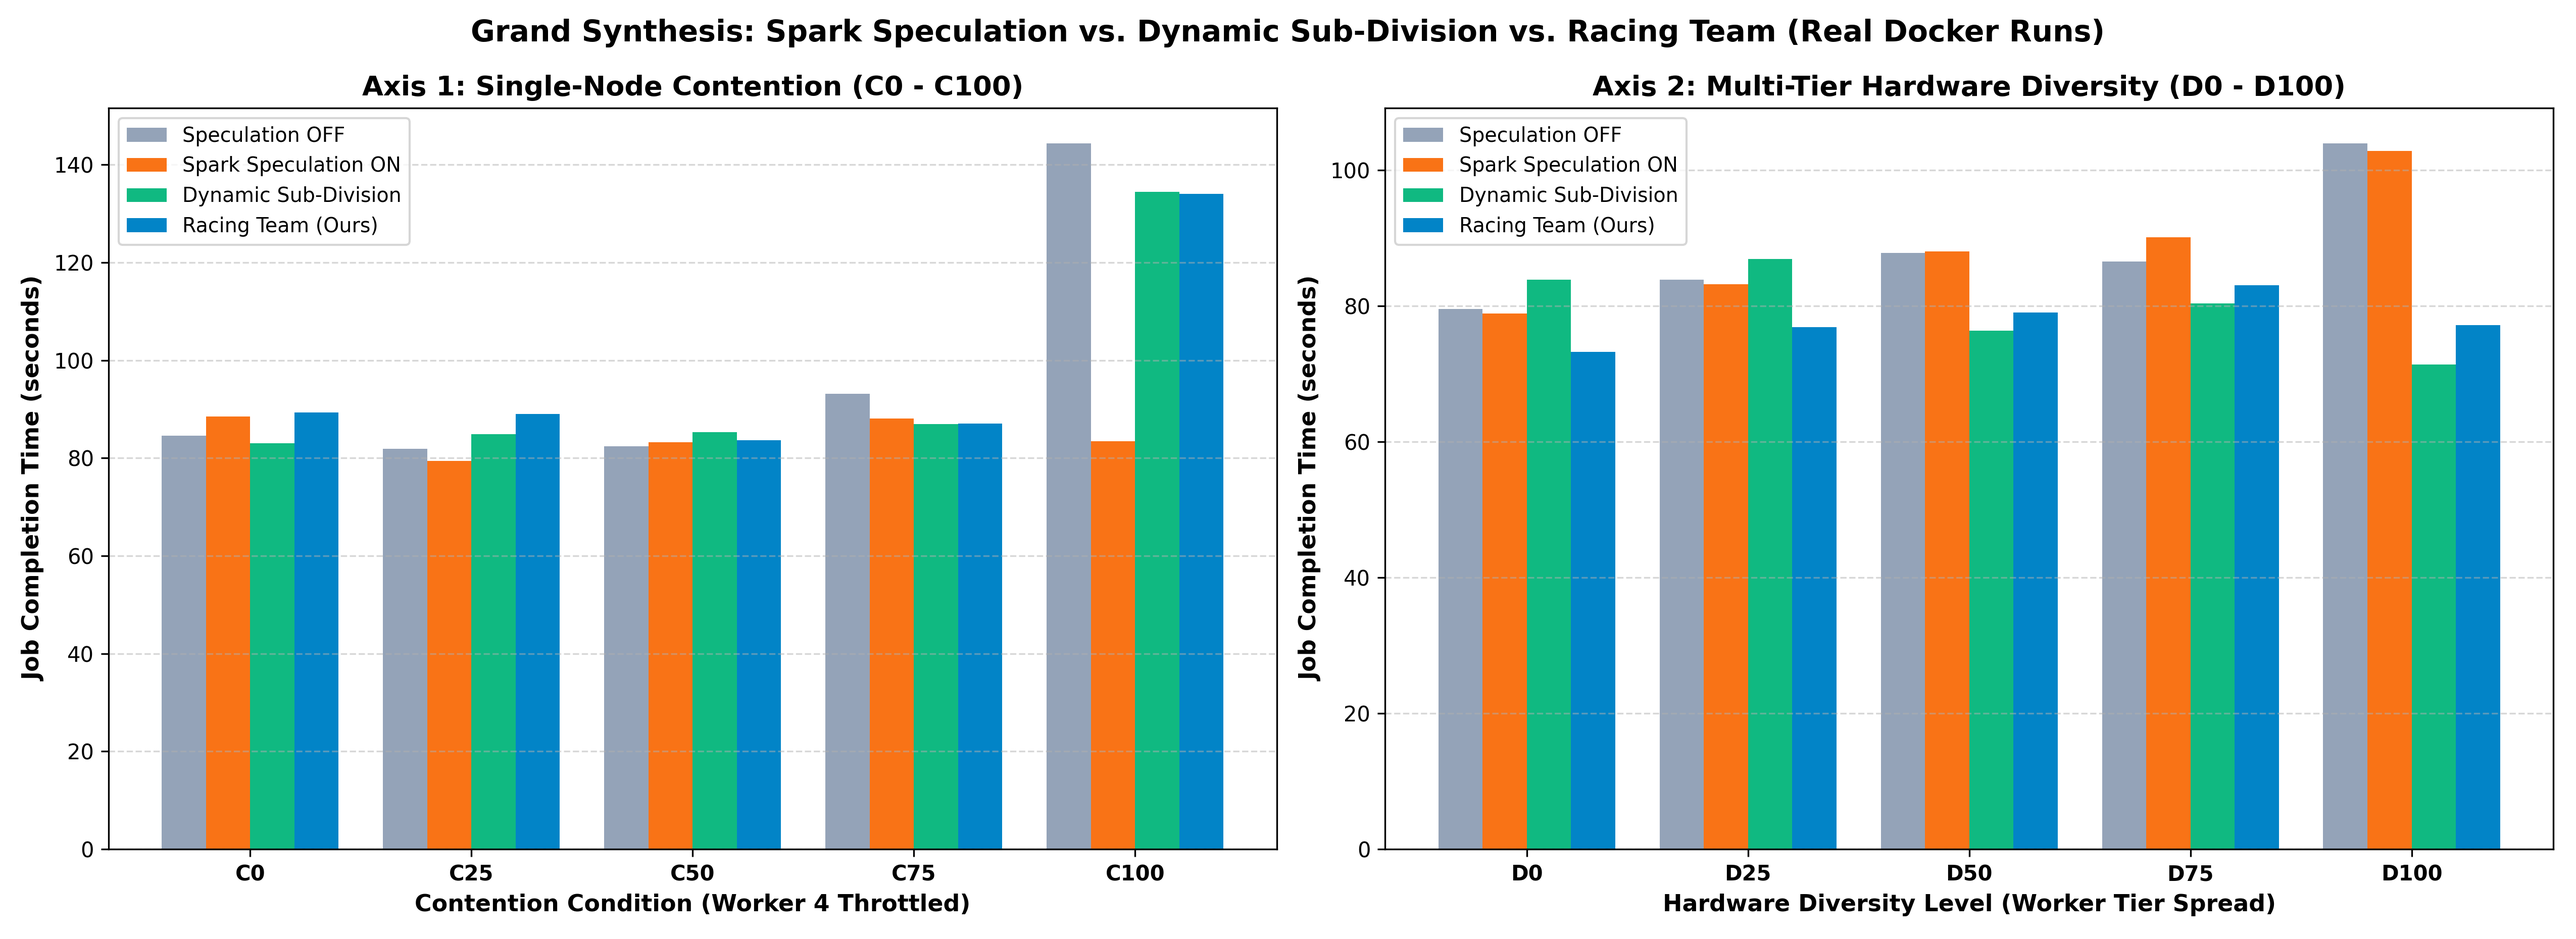
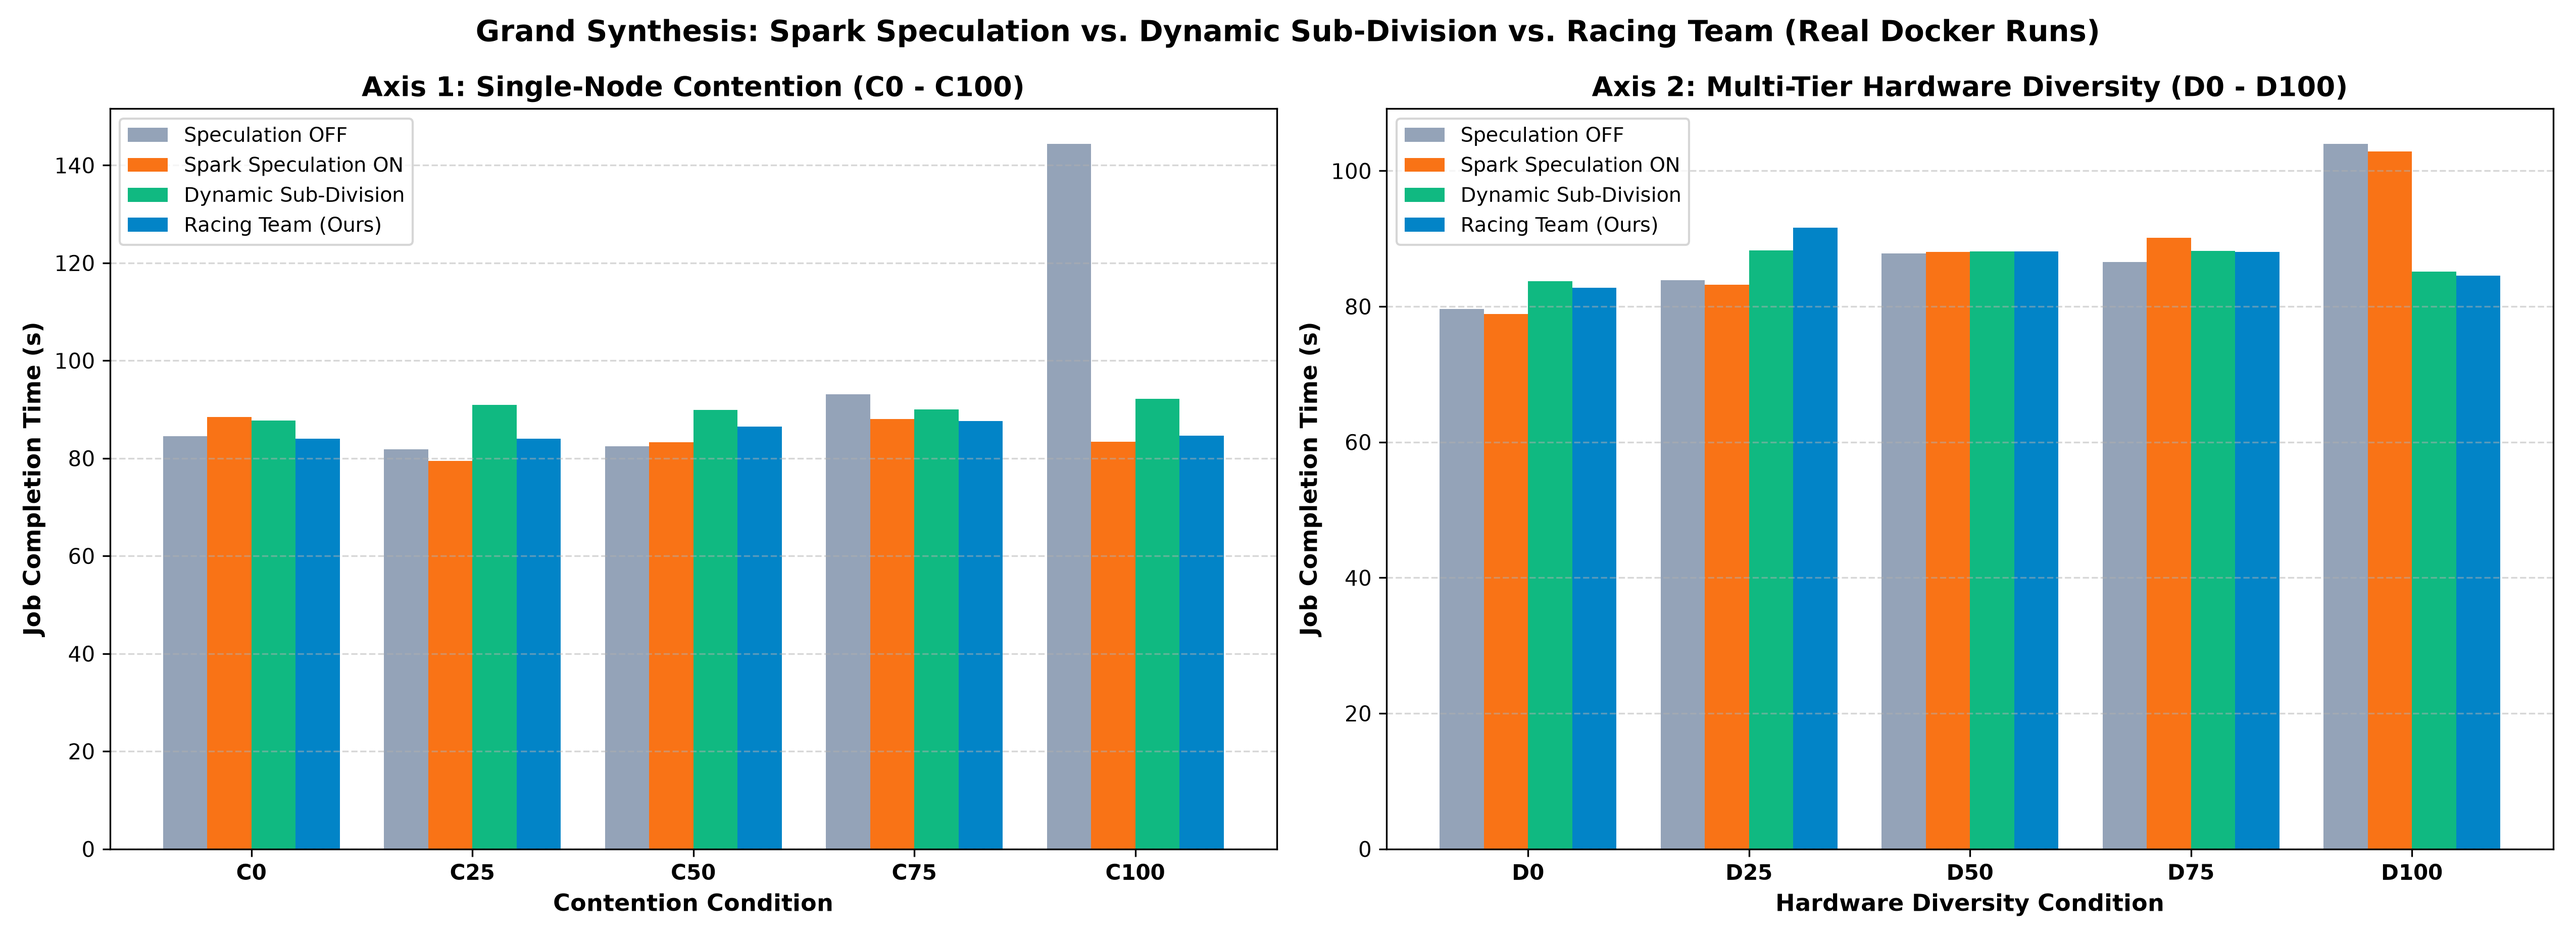
results of racing_team

diff --git a/analysis/parse_racing_team_results.py b/analysis/parse_racing_team_results.py
@@ -12,6 +12,8 @@ Evaluates:
 - Axis 2: Hardware Diversity (D0, D25, D50, D75, D100)
 
 Generates:
+- results/racing_team/master_racing_team_comparison.csv
+- results/racing_team/graph_racing_team_vs_spark.png
 - results/racing_team/master_4way_comparison.csv
 - results/racing_team/graph_4way_grand_comparison.png
 """
@@ -26,6 +28,7 @@ if str(ROOT) not in sys.path:
     sys.path.insert(0, str(ROOT))
 from controllers.set_contention import CONTENTION_PROFILES
 from controllers.set_diversity import DIVERSITY_PROFILES
+from analysis.run_statistical_tests import welch_t_test
 
 
 def _fmt_profiles(profiles_dict):
@@ -153,7 +156,45 @@ def main():
         writer.writeheader()
         writer.writerows(master_rows)
 
-    print(f"\n[+] Saved 4-way master comparison table to: {out_csv}\n")
+    # Also regenerate 3-way Racing Team vs. Spark CSV with Welch's t-test
+    rows_3way = []
+    for axis_name, prefix, phase_d, race_d, profiles in [
+        ("Contention", "C", p2_data, race_cont_data, c_profiles),
+        ("Diversity", "D", p3_data, race_div_data, d_profiles),
+    ]:
+        for lvl in [0, 25, 50, 75, 100]:
+            off_vals = phase_d[(lvl, "False")]
+            on_vals = phase_d[(lvl, "True")]
+            race_vals = race_d[lvl]
+            m_off, s_off = sample_stats(off_vals)
+            m_on, s_on = sample_stats(on_vals)
+            m_race, s_race = sample_stats(race_vals)
+            t_stat, _, p_val = welch_t_test(off_vals, race_vals)
+            rows_3way.append({
+                "axis": axis_name,
+                "condition": f"{prefix}{lvl}",
+                "profile": profiles[lvl],
+                "spec_off_mean": round(m_off, 2),
+                "spec_off_std": round(s_off, 2),
+                "spec_on_mean": round(m_on, 2),
+                "spec_on_std": round(s_on, 2),
+                "racing_team_mean": round(m_race, 2),
+                "racing_team_std": round(s_race, 2),
+                "speedup_vs_off_pct": round(((m_off - m_race) / m_off) * 100.0, 2),
+                "speedup_vs_spark_on_pct": round(((m_on - m_race) / m_on) * 100.0, 2),
+                "welch_t_vs_off": round(t_stat, 2),
+                "welch_p_vs_off": f"{p_val:.6f}" if p_val >= 1e-6 else f"{p_val:.2e}",
+                "significant_05": "YES" if p_val < 0.05 else "NO",
+            })
+
+    out_3way_csv = RACING_DIR / "master_racing_team_comparison.csv"
+    with open(out_3way_csv, "w", newline="", encoding="utf-8") as f:
+        writer = csv.DictWriter(f, fieldnames=list(rows_3way[0].keys()))
+        writer.writeheader()
+        writer.writerows(rows_3way)
+
+    print(f"\n[+] Saved 3-way master comparison table to: {out_3way_csv}")
+    print(f"[+] Saved 4-way master comparison table to: {out_csv}\n")
 
     header = f"{'Axis':<11} | {'Cond':<5} | {'Profile':<24} | {'Spec OFF (s)':<13} | {'Spark ON (s)':<13} | {'Dyn Sub-Div (s)':<15} | {'Racing Team (s)':<15} | {'Race vs Spark':<14} | {'Race vs Dyn'}"
     print(header)
@@ -167,65 +208,59 @@ def main():
         dyn_pct_s = f"{r['racing_vs_dynamic_pct']:+.2f}%"
         print(f"{r['axis']:<11} | {r['condition']:<5} | {r['profile']:<24} | {off_s:<13} | {on_s:<13} | {dyn_s:<15} | {race_s:<15} | {spk_s:<14} | {dyn_pct_s}")
 
-    # Generate 4-Bar Figure
+    # Generate 3-Bar & 4-Bar Figures via shared helper
     try:
         os.environ["MPLCONFIGDIR"] = "/tmp"
         import matplotlib
         matplotlib.use("Agg")
         import matplotlib.pyplot as plt
 
-        fig, (ax1, ax2) = plt.subplots(1, 2, figsize=(17, 6.2))
+        def save_bar_plot(series_spec, title, out_path):
+            fig, (ax1, ax2) = plt.subplots(1, 2, figsize=(17, 6.2))
+            n_bars = len(series_spec)
+            w = 0.80 / n_bars
+            for ax, axis_name, sub_title, xlabel in [
+                (ax1, "Contention", "Axis 1: Single-Node Contention (C0 - C100)", "Contention Condition"),
+                (ax2, "Diversity", "Axis 2: Multi-Tier Hardware Diversity (D0 - D100)", "Hardware Diversity Condition"),
+            ]:
+                axis_rows = [r for r in master_rows if r["axis"] == axis_name]
+                levels = [r["condition"] for r in axis_rows]
+                x = range(len(levels))
+                for idx, (field, label, color) in enumerate(series_spec):
+                    offset = (idx - (n_bars - 1) / 2.0) * w
+                    ax.bar([i + offset for i in x], [r[field] for r in axis_rows], width=w, label=label, color=color)
+                ax.set_title(sub_title, fontsize=13, fontweight="bold")
+                ax.set_xlabel(xlabel, fontsize=11, fontweight="bold")
+                ax.set_ylabel("Job Completion Time (s)", fontsize=11, fontweight="bold")
+                ax.set_xticks(list(x))
+                ax.set_xticklabels(levels, fontweight="bold")
+                ax.grid(axis="y", linestyle="--", alpha=0.5)
+                ax.legend(fontsize=9.5)
+            plt.suptitle(title, fontsize=14, fontweight="bold")
+            plt.tight_layout()
+            plt.savefig(out_path, dpi=300)
+            plt.close()
+            print(f"[+] Publication figure saved to: {out_path}")
 
-        # Colors: Slate Gray, Spark Orange, Emerald Green, Electric Sky Blue
-        c_off = "#94a3b8"
-        c_spk = "#f97316"
-        c_dyn = "#10b981"
-        c_race = "#0284c7"
-
-        # Axis 1: Contention Plot
-        c_rows = [r for r in master_rows if r["axis"] == "Contention"]
-        c_levels = [r["condition"] for r in c_rows]
-        x1 = range(len(c_levels))
-        w = 0.20
-
-        ax1.bar([i - 1.5*w for i in x1], [r["spec_off_mean"] for r in c_rows], width=w, label="Speculation OFF", color=c_off)
-        ax1.bar([i - 0.5*w for i in x1], [r["spark_on_mean"] for r in c_rows], width=w, label="Spark Speculation ON", color=c_spk)
-        ax1.bar([i + 0.5*w for i in x1], [r["dynamic_subdiv_mean"] for r in c_rows], width=w, label="Dynamic Sub-Division", color=c_dyn)
-        ax1.bar([i + 1.5*w for i in x1], [r["racing_team_mean"] for r in c_rows], width=w, label="Racing Team (Ours)", color=c_race)
-
-        ax1.set_title("Axis 1: Single-Node Contention (C0 - C100)", fontsize=13, fontweight="bold")
-        ax1.set_xlabel("Contention Condition (Worker 4 Throttled)", fontsize=11, fontweight="bold")
-        ax1.set_ylabel("Job Completion Time (seconds)", fontsize=11, fontweight="bold")
-        ax1.set_xticks(x1)
-        ax1.set_xticklabels(c_levels, fontweight="bold")
-        ax1.grid(axis="y", linestyle="--", alpha=0.5)
-        ax1.legend(fontsize=9.5)
-
-        # Axis 2: Diversity Plot
-        d_rows = [r for r in master_rows if r["axis"] == "Diversity"]
-        d_levels = [r["condition"] for r in d_rows]
-        x2 = range(len(d_levels))
-
-        ax2.bar([i - 1.5*w for i in x2], [r["spec_off_mean"] for r in d_rows], width=w, label="Speculation OFF", color=c_off)
-        ax2.bar([i - 0.5*w for i in x2], [r["spark_on_mean"] for r in d_rows], width=w, label="Spark Speculation ON", color=c_spk)
-        ax2.bar([i + 0.5*w for i in x2], [r["dynamic_subdiv_mean"] for r in d_rows], width=w, label="Dynamic Sub-Division", color=c_dyn)
-        ax2.bar([i + 1.5*w for i in x2], [r["racing_team_mean"] for r in d_rows], width=w, label="Racing Team (Ours)", color=c_race)
-
-        ax2.set_title("Axis 2: Multi-Tier Hardware Diversity (D0 - D100)", fontsize=13, fontweight="bold")
-        ax2.set_xlabel("Hardware Diversity Level (Worker Tier Spread)", fontsize=11, fontweight="bold")
-        ax2.set_ylabel("Job Completion Time (seconds)", fontsize=11, fontweight="bold")
-        ax2.set_xticks(x2)
-        ax2.set_xticklabels(d_levels, fontweight="bold")
-        ax2.grid(axis="y", linestyle="--", alpha=0.5)
-        ax2.legend(fontsize=9.5)
-
-        plt.suptitle("Grand Synthesis: Spark Speculation vs. Dynamic Sub-Division vs. Racing Team (Real Docker Runs)", fontsize=14, fontweight="bold")
-        plt.tight_layout()
-
-        plot_path = RACING_DIR / "graph_4way_grand_comparison.png"
-        plt.savefig(plot_path, dpi=300)
-        plt.close()
-        print(f"[+] 4-Bar publication figure saved to: {plot_path}")
+        save_bar_plot(
+            [
+                ("spec_off_mean", "Speculation OFF", "#94a3b8"),
+                ("spark_on_mean", "Spark Speculation ON", "#f97316"),
+                ("racing_team_mean", "Racing Team Speculation", "#0284c7"),
+            ],
+            "Grand Synthesis: Spark Speculation vs. Racing Team Speculation (Real Docker Runs)",
+            RACING_DIR / "graph_racing_team_vs_spark.png",
+        )
+        save_bar_plot(
+            [
+                ("spec_off_mean", "Speculation OFF", "#94a3b8"),
+                ("spark_on_mean", "Spark Speculation ON", "#f97316"),
+                ("dynamic_subdiv_mean", "Dynamic Sub-Division", "#10b981"),
+                ("racing_team_mean", "Racing Team (Ours)", "#0284c7"),
+            ],
+            "Grand Synthesis: Spark Speculation vs. Dynamic Sub-Division vs. Racing Team (Real Docker Runs)",
+            RACING_DIR / "graph_4way_grand_comparison.png",
+        )
 
     except Exception as e:
         print(f"[!] Plot generation note: {e}")
